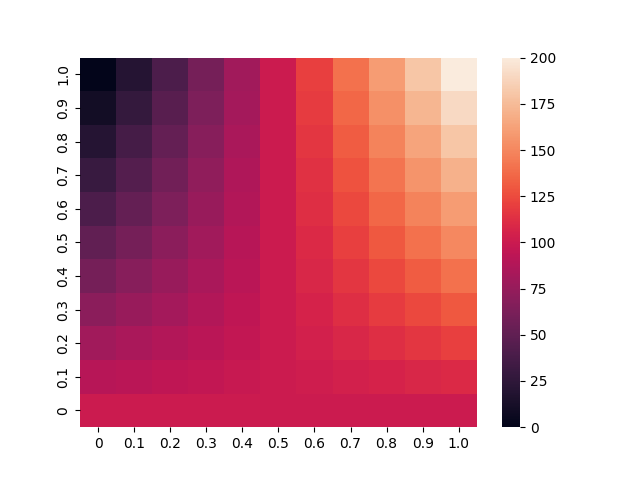
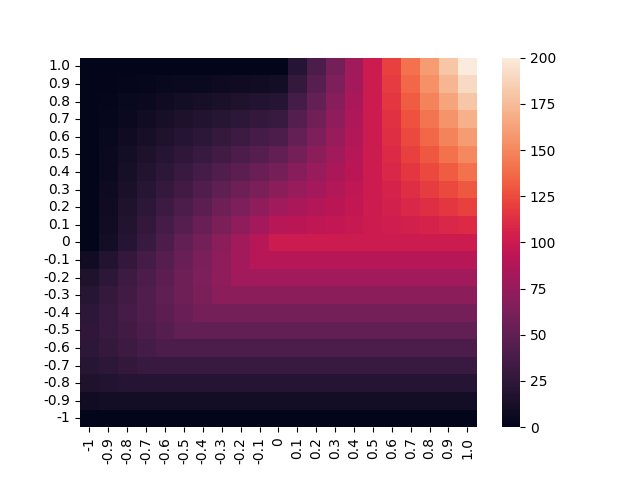
expanded heatmaps to include negative regions

diff --git a/Analysis/HeatMaps/fitnessHeatmap.py b/Analysis/HeatMaps/fitnessHeatmap.py
@@ -1,0 +1,69 @@
+# importing the modules
+from random import randint
+import numpy as np
+import seaborn as sns
+import matplotlib.pyplot as plt
+  
+host_int_vals = [-1, -0.9, -0.8, -0.7, -0.6, -0.5, -0.4, -0.3, -0.2, -0.1, 0, 0.1, 0.2, 0.3, 0.4, 0.5, 0.6, 0.7, 0.8, 0.9, 1.0]
+#host_int_vals = [0, 0.1, 0.2, 0.3, 0.4, 0.5, 0.6, 0.7, 0.8, 0.9, 1.0]
+sym_int_vals = [-1, -0.9, -0.8, -0.7, -0.6, -0.5, -0.4, -0.3, -0.2, -0.1, 0, 0.1, 0.2, 0.3, 0.4, 0.5, 0.6, 0.7, 0.8, 0.9, 1.0]
+#sym_int_vals = [0, 0.1, 0.2, 0.3, 0.4, 0.5, 0.6, 0.7, 0.8, 0.9, 1.0]
+host_int_vals.reverse()
+
+
+host_res = []
+sym_res = []
+synergy = 2
+res_update = 100
+
+for h in range(len(host_int_vals)):
+    host_res.append([None] * len(sym_int_vals))
+    sym_res.append([None] * len(sym_int_vals))
+    for s in range(len(sym_int_vals)):
+        if host_int_vals[h]>=0 and sym_int_vals[s] >= 0:
+            host_donate = res_update * host_int_vals[h]
+            host_resources = res_update - host_donate
+            sym_donate = host_donate * sym_int_vals[s]
+            sym_res[h][s] = host_donate - sym_donate
+            host_res[h][s] = host_resources + sym_donate * synergy
+        elif host_int_vals[h]<0 and sym_int_vals[s]<0:
+            host_defense = res_update* -1 * host_int_vals[h]
+            host_resources = res_update - host_defense
+
+            #difference between sym magnitude and host magnitude
+            diff = -1 * sym_int_vals[s] - -1 * host_int_vals[h]
+            stolen = 0
+            if diff > 0:
+                #sym is more negative and so steals from host
+                stolen = host_resources*diff
+                host_resources -= stolen
+            sym_res[h][s] = stolen
+            host_res[h][s] = host_resources
+        elif host_int_vals[h] <0 and sym_int_vals[s] >= 0:
+            host_defense = res_update* -1 * host_int_vals[h]
+            host_resources = res_update - host_defense
+            sym_res[h][s] = 0
+            host_res[h][s] = host_resources
+        elif host_int_vals[h] >= 0 and sym_int_vals[s] < 0:
+            #symbiont gets donated resources and steals more
+            host_donate = res_update * host_int_vals[h]
+            host_resources = res_update - host_donate
+            stolen = -1 * sym_int_vals[s] * host_resources
+            host_resources -= stolen
+            sym_resources = host_donate + stolen
+            sym_res[h][s] = sym_resources
+            host_res[h][s] = host_resources
+        else:
+            print("Problem, this shouldn't happen")
+
+                
+        
+
+  
+# plotting the heatmap
+
+
+hm = sns.heatmap(data = host_res, xticklabels = sym_int_vals, yticklabels = host_int_vals)
+  
+# displaying the plotted heatmap
+plt.show()
